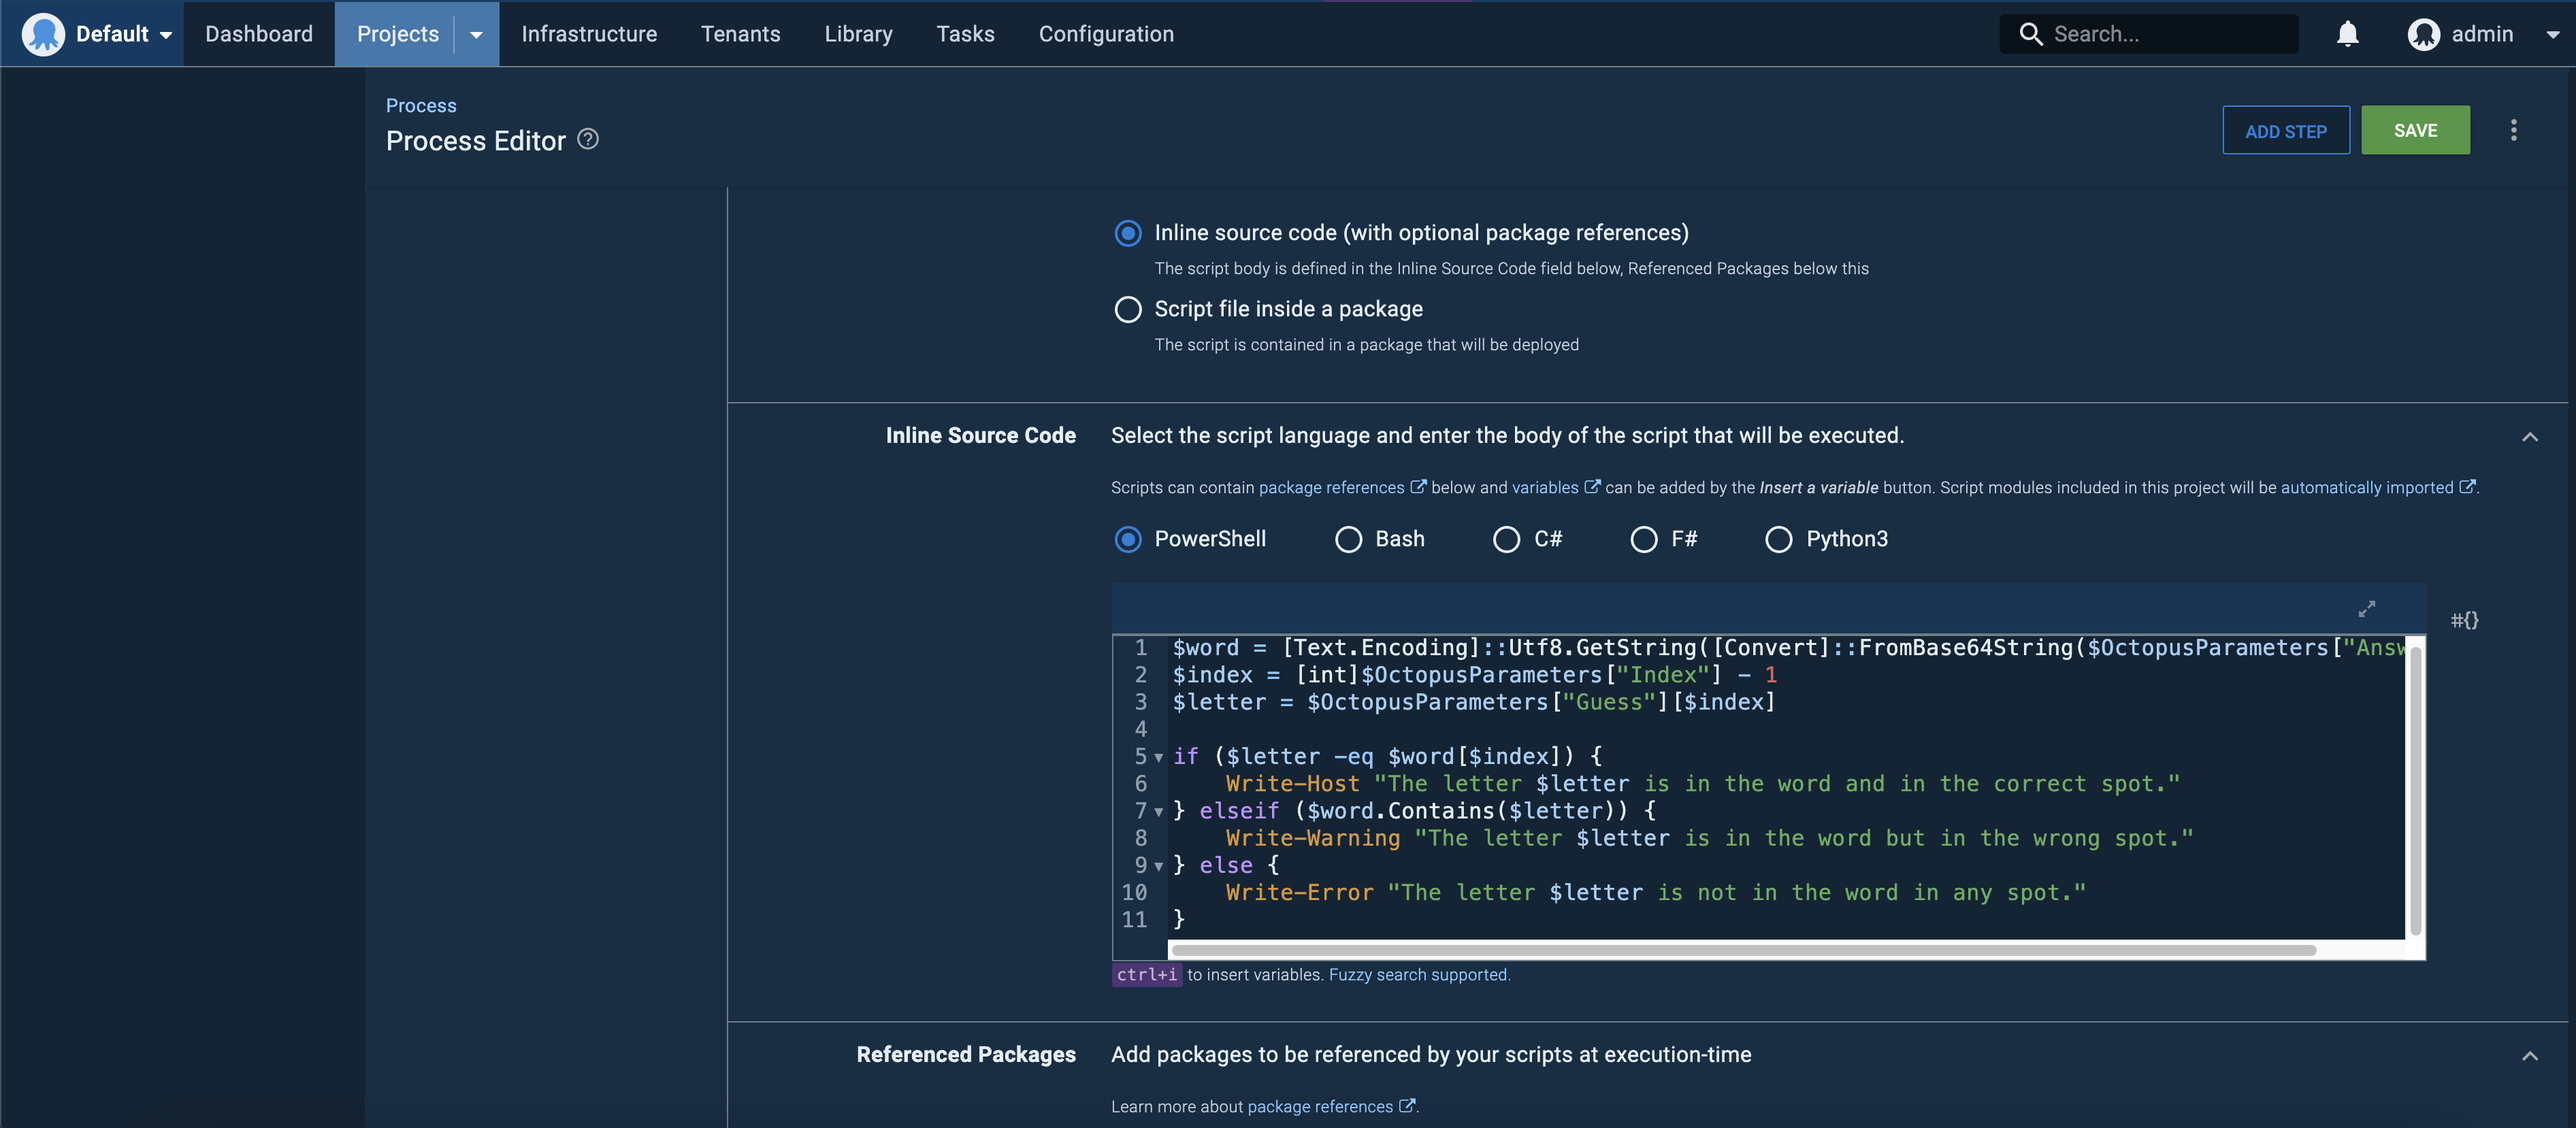
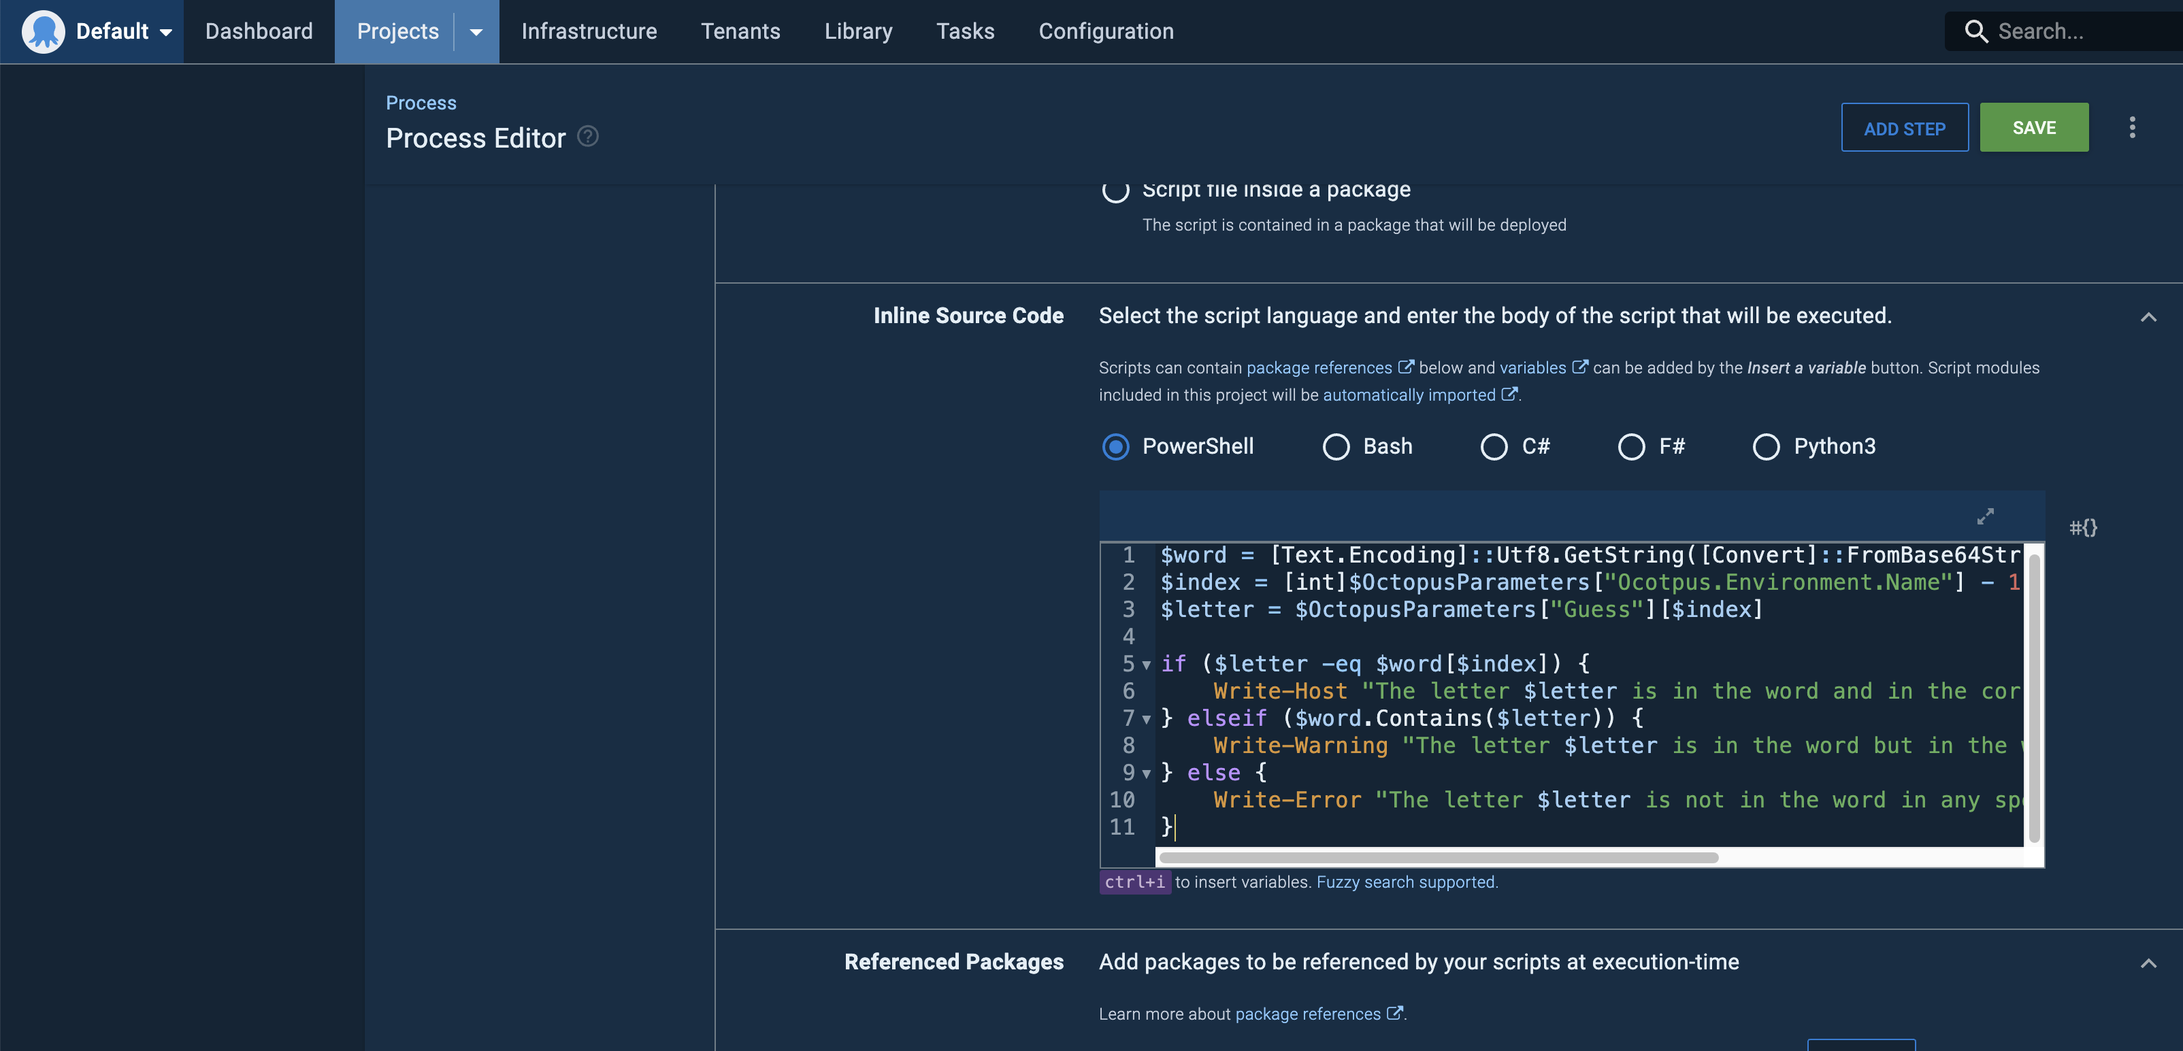
Use system variables for environments

diff --git a/README.md b/README.md
@@ -7,17 +7,20 @@
 
 3. Download the `generate-answer.js` file in this repo, and run it locally with Node (`$ node ./generate-answer.js`). This will give you a random base64-encoded 5-letter word, this is the answer you will be trying to guess.
 
-4. In project variables, create the following variables. `Answer` is the base64-encoded word you just got from last step. `Guess` is your first guess ("brown" in my case). You will be changing this value in each round until you get the correct answer. `Index` is environment-scoped. Its value is the same as the environment names.
+4. In project variables, create the following variables. `Answer` is the base64-encoded word you just got from last step. `Guess` is your first guess ("brown" in my case). You will be changing this value in each round until you get the correct answer.
 ![](./screenshots/create-variables.png)
 
 5. In the "Process" section, add a "Run a Script" step. Use Powershell as the language and copy over the content of `script.ps1` file in this repo. Make sure you select "Run on Octopus Server" if you use a local Octopus instance.
 ![](./screenshots/add-script.png)
 
-6. Create a release. For clearer output, set the version of the release the same as your guess ("brown" for example). Deploy it to all 5 environments.
+6. In project settings, set the release version template to be `#{Guess}`. 
+![](./screenshots/version-template.png)
+
+7. Create a release and deploy it to all 5 environments.
 ![](./screenshots/deploy.png)
 
-7. Go back to the "Overview" section. A successful deployment means the letter is in the answer and in correct spot. A "successful with warning" deployment means the letter is in the answer, but in a wrong spot. A failed deployment means the letter is not in the answer.
+8. Go back to the "Overview" section. A successful deployment means the letter is in the answer and in correct spot. A "successful with warning" deployment means the letter is in the answer, but in a wrong spot. A failed deployment means the letter is not in the answer.
 ![](./screenshots/deployment-results.png)
 
-8. Change the value of the `Guess` variable and deploy again. Repeat this process until you get 5 successful deployments!
+9. Change the value of the `Guess` variable and deploy again. Repeat this process until you get 5 successful deployments!
 ![](./screenshots/all-passing.png)
